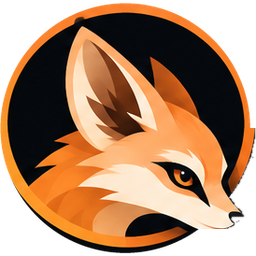
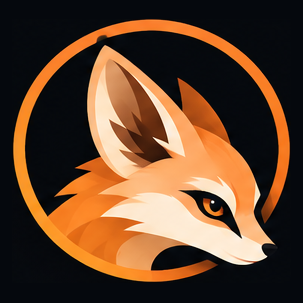
fix: use the emblem as drawn, without the cut-out
The cut-out fitted a perfect circle to a ring that is not one: it kept a
band of the dark background past the ring near the muzzle. The emblem
is now the original image, its corners rounded on the About tab.

diff --git a/web/src/components/settings/AboutBrand.tsx b/web/src/components/settings/AboutBrand.tsx
@@ -5,7 +5,7 @@ export function AboutBrand() {
 
   return (
     <div className="flex flex-col items-center gap-2 py-6 text-center">
-      <img src="/emblem.png" alt="" className="h-28 w-28" />
+      <img src="/emblem.png" alt="" className="h-28 w-28 rounded-2xl" />
       <div className="text-2xl font-semibold tracking-[-0.01em] text-text">fennec</div>
       <p className="m-0 max-w-md text-sm text-muted">{t('aboutTagline')}</p>
     </div>
